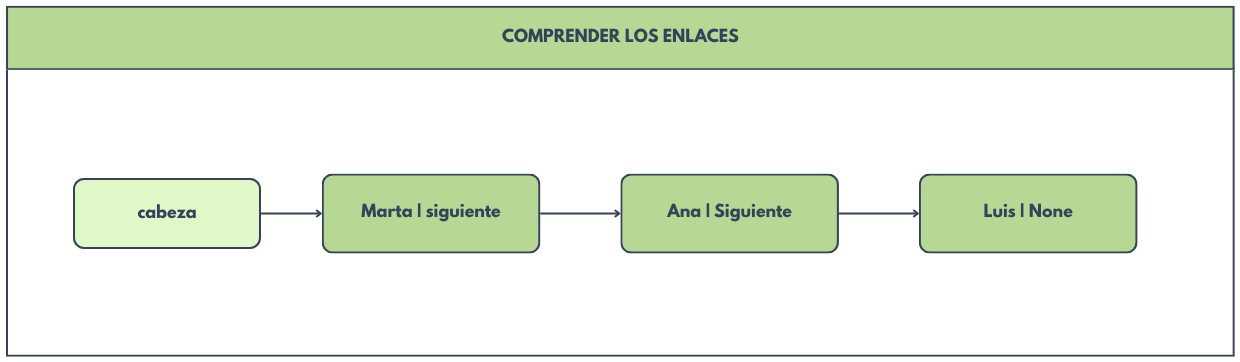
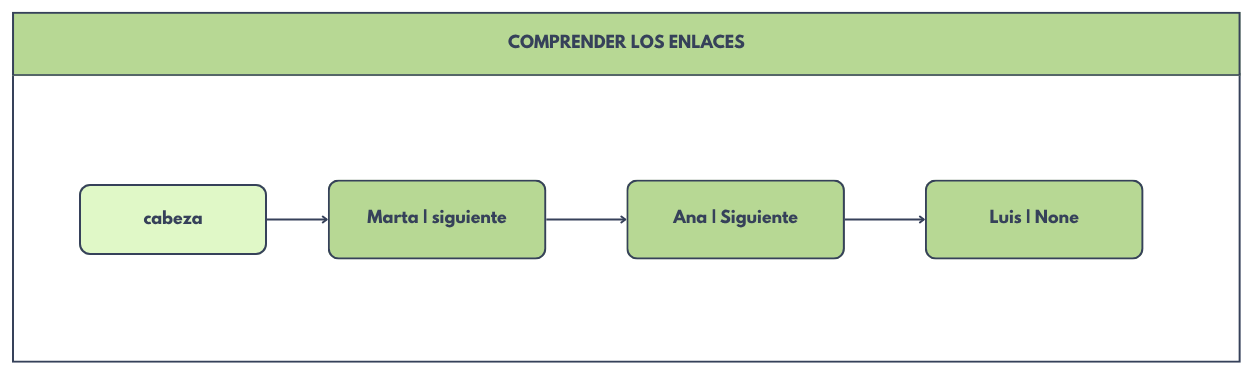
Avance en dibujos

diff --git a/Semana10.2/Dibujos/dibujos.html b/Semana10.2/Dibujos/dibujos.html
@@ -13,8 +13,101 @@
     </div>
 
     <h4>1. Comprender los enlaces</h4>
+    <p>
+      Una lista enlazada conecta nodos mediante referencias. <code_Format>cabeza</code_Format> referencia al primer nodo; <code_Format>None</code_Format> indica ausencia de nodo. El último nodo tiene <code_Format>siguiente = None</code_Format>.
+    </p>
     <centrar>
-      <img src="nodos.png" alt="Comprender los enlaces">
+      <img src = "nodos.png" alt = "Comprender los enlaces">
     </centrar>
+    <p>
+      Los diccionarios representan nodos y sus valores guardan referencias a otros diccionarios. Python administra la memoria: aquí no manipulamos direcciones manualmente.
+
+      Una <code_Format>list</code_Format> de Python usa un arreglo dinámico de referencias; no es esta estructura enlazada. Aquí no hay acceso directo por índice: hay que recorrer los enlaces.
+    </p>
+
+
+    <!-- <hr class = "dashed"> -->
+
+
+    <br>
+
+    <h4>2. Crear el nodo</h4>
+    <p>
+      Crea el <code_Format>archivo lista_enlazada.py</code_Format>. Agrega esta función. Cada llamada produce un nodo independiente.
+    </p>
+
+    <centrar>
+      <pre class="code-box"><code>def crear_nodo(dato):
+      return {"dato": dato, "siguiente": None}</code></pre>
+    </centrar>
+
+    <centrar>
+      <img src = "nodos2.png" alt ="Crear el nodo">
+    </centrar>
+
+    <br>
+
+    <h4>3. Insertar al inicio</h4>
+    <p>
+      Primero conecta el nuevo nodo con la cabeza anterior; después devuelve la nueva cabeza. El orden evita perder el acceso al resto de la lista.
+    </p>
+
+    <center>
+      <pre class="code-box"><code>def insertar_inicio(cabeza, dato):
+      nuevo = crear_nodo(dato)
+      nuevo["siguiente"] = cabeza
+      return nuevo</code></pre>
+    </center>
+
+    <br>
+    
+    <h4>4. Insertar al final</h4>
+    <p>
+      Si está vacía, el nuevo nodo pasa a ser la cabeza. Si tiene elementos, avanza hasta el último nodo y conecta el nuevo.
+    </p>
+
+    <br>
+    
+    <h4>5. Recorrer y mostrar</h4>
+    <p>
+      La variable auxiliar <code_Format>actual</code_Format> avanza sin cambiar la cabeza. En una lista vacía se imprime únicamente <code_Format>None</code_Format>.
+    </p>
+
+    <br>
+
+    <h4>6. Buscar un turno</h4>
+    <p>
+      Recorre desde la posición 0. Devuelve la primera posición encontrada o -1 si el nombre no existe.
+    </p>
+
+    <br>
+
+    <h4>7. Eliminar un turno</h4>
+    <p>
+      Distingue lista vacía, eliminación de la cabeza y eliminación de otro nodo. Devuelve una tupla: nueva cabeza y confirmación. Reenlazar el anterior con el siguiente excluye al nodo eliminado.
+    </p>
+
+    <br>
+
+    <h4>8. Contar los nodos</h4>
+    <p>
+      Cuenta recorriendo la estructura. No usa un contador global que pueda quedar desactualizado.
+    </p>
+
+    <br>
+
+    <!--
+    <h4>9. Ejecutar una prueba integrada</h4>
+    <p>
+      Agrega temporalmente estas instrucciones debajo de las funciones. Ejecuta <code_Format>python lista_enlazada.py</code_Format> o ejecuta la celda en Colab.
+    </p>
+
+    <br>
+
+    <h4>10. Construir el menú</h4>
+    <p>
+      Retira las instrucciones de la prueba integrada y añade este bloque después de las funciones. Las funciones de los pasos 4 al 10 más este bloque forman el programa completo.
+    </p>
+-->
   </body>
 </html>

diff --git a/Semana10.2/Dibujos/dibujosStyle.css b/Semana10.2/Dibujos/dibujosStyle.css
@@ -25,3 +25,32 @@ h4{
 body{
     background-color: #f0ffe1;
 }
+
+p{
+    text-indent: 30px;
+    color: #36415a;
+    font-family: 'Segoe UI', Tahoma, Geneva, Verdana, sans-serif;
+    padding-left: 30px;
+}
+
+code_format{
+    font-family: monospace;
+    color: #D96868;
+    background-color: #F6E2E9;
+}
+
+hr.dashed{
+    border-top: 3px dashed #bbb;
+}
+
+.code-box {
+    margin-left: 30px;
+    display: inline-block;
+    background-color: #282c34;
+    color: #abb2bf;
+    font-family: Consolas, Monaco, monospace;
+    padding: 1rem;
+    border-radius: 10px;
+    border: 1px solid #4b5263;
+    box-shadow: 0 2px 8px rgba(0,0,0,.15);
+}
